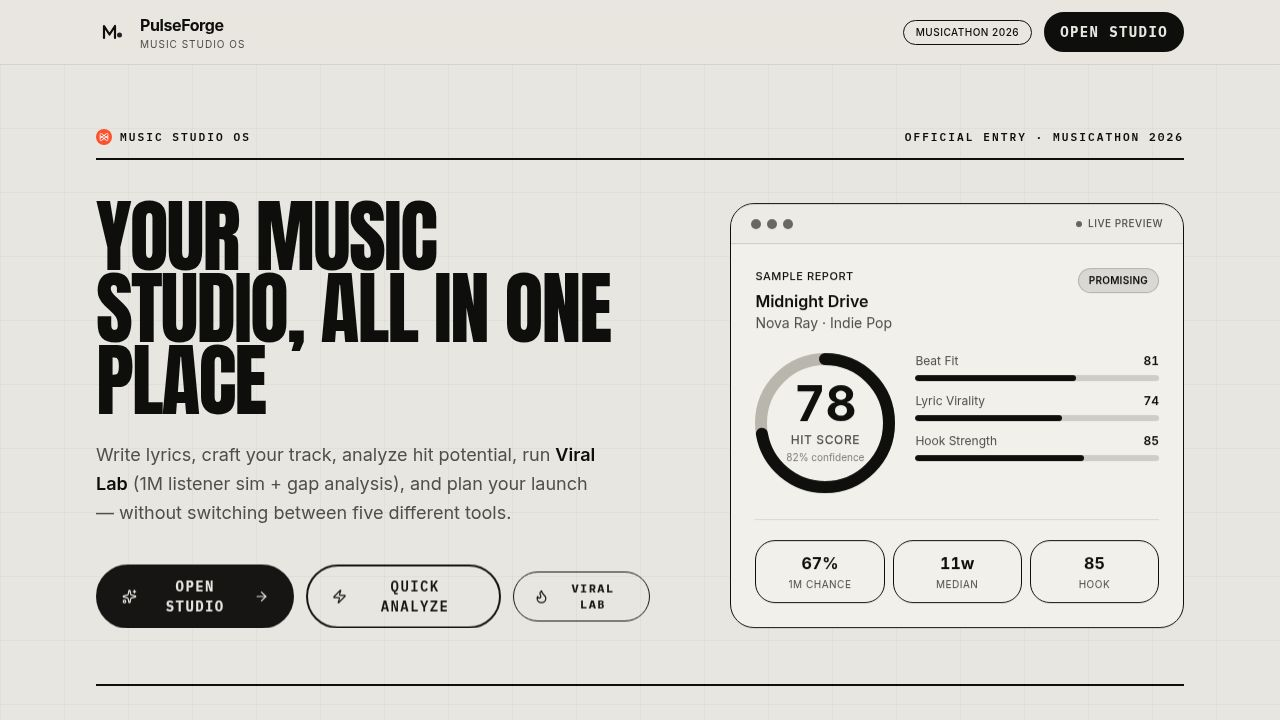
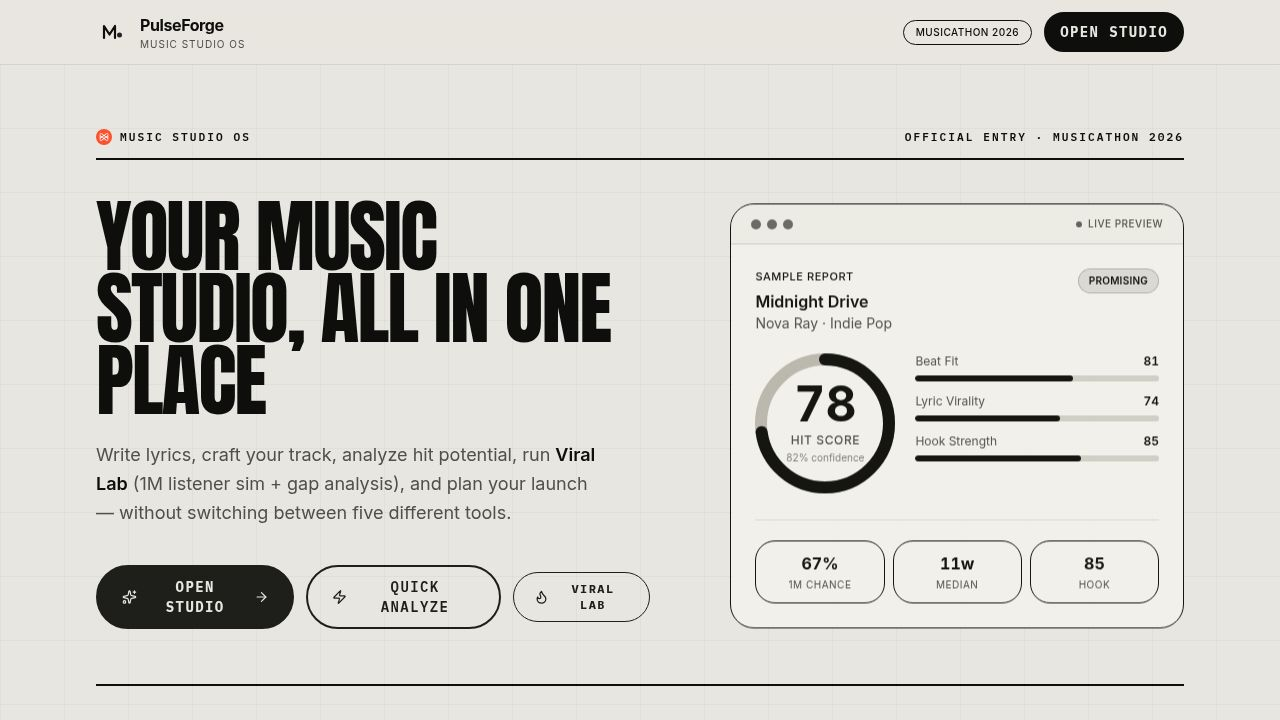
Add audio examples to the dashboard showcasing original music
Integrate `ExampleSongsShowcase` component into `DashboardPage.tsx`, displaying two original audio files (`on-my-terms.mp3`, `petals-on-the-calendar.mp3`) with audio players, utilizing `import.meta.env.BASE_URL` for asset paths.

Replit-Commit-Author: Agent
Replit-Commit-Session-Id: 7f1e2e69-ae91-4c80-b2e0-d8b26b93185e
Replit-Commit-Checkpoint-Type: full_checkpoint
Replit-Commit-Event-Id: 2852a490-bb64-4ae8-98a0-ead2987120a6
Replit-Commit-Screenshot-Url: https://storage.googleapis.com/screenshot-production-us-central1/f44e05b4-7769-43c4-8832-141c38576957/7f1e2e69-ae91-4c80-b2e0-d8b26b93185e/mafjdCC
Replit-Helium-Checkpoint-Created: true

diff --git a/artifacts/pulseforge/src/components/dashboard/ExampleSongsShowcase.tsx b/artifacts/pulseforge/src/components/dashboard/ExampleSongsShowcase.tsx
@@ -1,0 +1,66 @@
+import { Music2, Sparkles } from "lucide-react";
+import { SectionHead } from "@/components/ui/editorial";
+
+interface ExampleSong {
+  title: string;
+  tagline: string;
+  src: string;
+}
+
+const EXAMPLE_SONGS: ExampleSong[] = [
+  {
+    title: "On My Terms",
+    tagline: "Original demo · crafted end-to-end in PulseForge",
+    src: `${import.meta.env.BASE_URL}examples/on-my-terms.mp3`,
+  },
+  {
+    title: "Petals on the Calendar",
+    tagline: "Original demo · crafted end-to-end in PulseForge",
+    src: `${import.meta.env.BASE_URL}examples/petals-on-the-calendar.mp3`,
+  },
+];
+
+export function ExampleSongsShowcase() {
+  return (
+    <section className="mt-12">
+      <SectionHead
+        eyebrow="Showcase"
+        title="Made with PulseForge"
+      />
+      <p className="mb-5 max-w-2xl text-sm text-muted">
+        Real demos written, produced, and launched inside PulseForge. Press play to hear
+        what the studio can make.
+      </p>
+
+      <div className="grid gap-4 sm:grid-cols-2">
+        {EXAMPLE_SONGS.map((song) => (
+          <div
+            key={song.title}
+            className="flex flex-col gap-4 border-2 border-foreground p-5"
+          >
+            <div className="flex items-start justify-between gap-3">
+              <div className="min-w-0">
+                <div className="mb-1 inline-flex items-center gap-1.5 text-[11px] font-semibold uppercase tracking-wide text-accent-light">
+                  <Sparkles className="h-3.5 w-3.5" />
+                  PulseForge Original
+                </div>
+                <h3 className="truncate font-display text-2xl uppercase tracking-tight">
+                  {song.title}
+                </h3>
+                <p className="mt-1 text-xs text-muted">{song.tagline}</p>
+              </div>
+              <span className="flex h-10 w-10 shrink-0 items-center justify-center border-2 border-foreground">
+                <Music2 className="h-5 w-5" />
+              </span>
+            </div>
+
+            <audio controls preload="metadata" className="w-full">
+              <source src={song.src} type="audio/mpeg" />
+              Your browser does not support the audio element.
+            </audio>
+          </div>
+        ))}
+      </div>
+    </section>
+  );
+}

diff --git a/artifacts/pulseforge/src/components/dashboard/DashboardPage.tsx b/artifacts/pulseforge/src/components/dashboard/DashboardPage.tsx
@@ -13,6 +13,7 @@ import {
 } from "lucide-react";
 import { useStudioProjects } from "@/lib/hooks/useStudioProjects";
 import { ProjectCard } from "@/components/studio/ProjectCard";
+import { ExampleSongsShowcase } from "@/components/dashboard/ExampleSongsShowcase";
 import { NewProjectForm } from "@/components/studio/NewProjectForm";
 import {
   computeDashboardStats,
@@ -256,6 +257,8 @@ export function DashboardPage() {
               ))}
             </div>
           )}
+
+          <ExampleSongsShowcase />
 
           {/* Viral Lab candidates */}
           {ready && viralCandidates.length > 0 && (